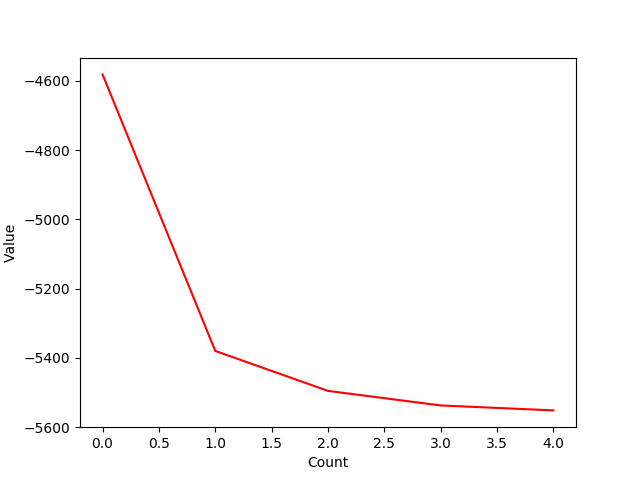
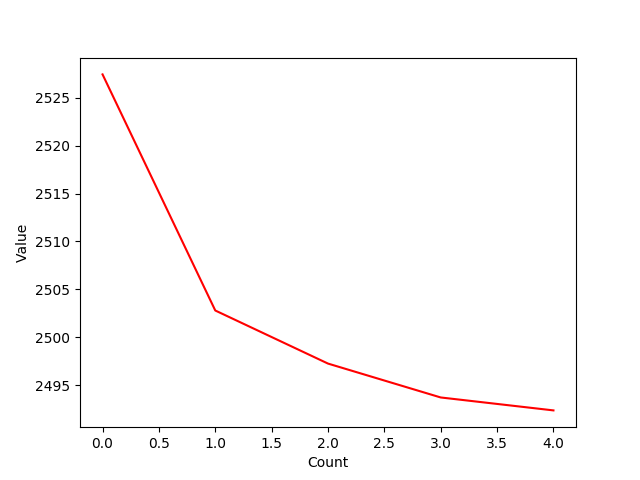
Automated Commision

diff --git a/rebalance-portfolio/sequential.py b/rebalance-portfolio/sequential.py
@@ -38,7 +38,7 @@ def sequential_prediction(model=None, stock_id=None, timeseries=None, date=None,
             momentum += 1
             bias_momentum += 1
             bias_momentum *= (vix_average / 10)
-    bias_momentum /= momentum
+    bias_momentum /= momentum * 10
     #print("\nBIAS = [", bias_momentum, "]\n")
 
     for count in range(5):
